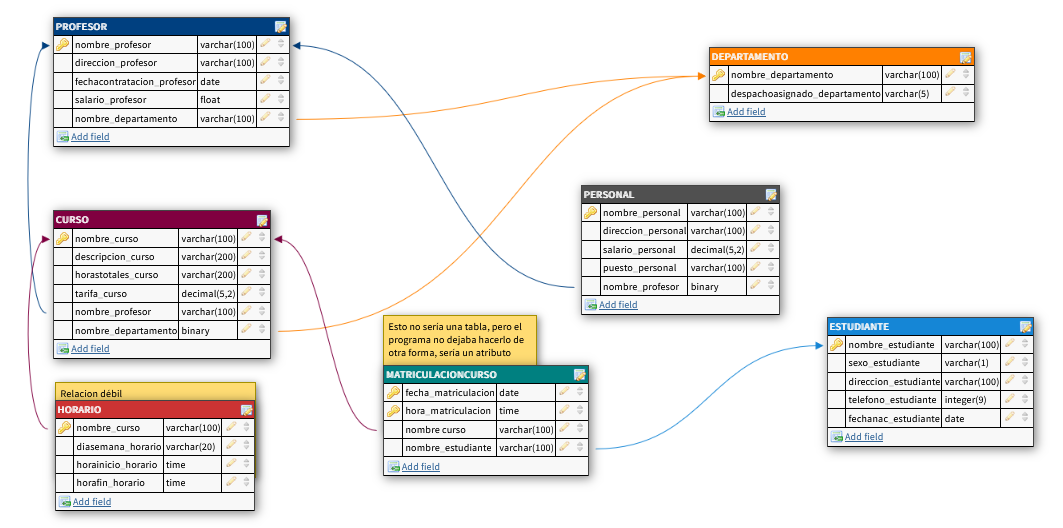
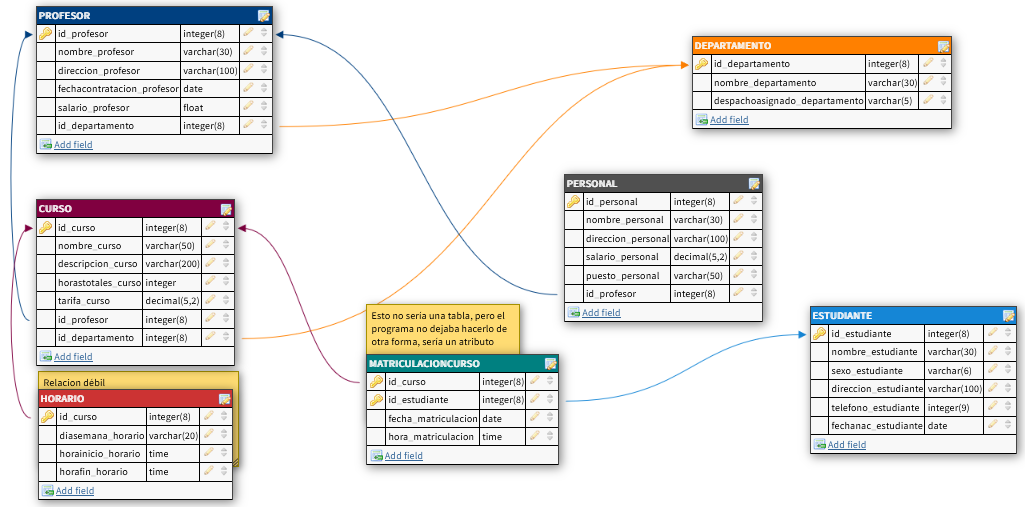
Reorder tables + Pages fixed + all TODO.md errors fixed + page design started + flowfields started

diff --git a/TODO.md b/TODO.md
@@ -1,21 +1,13 @@
 # Falta
 
-- Relaciones
 - Campos Calculados
 - Campos de Filtrado
+- Diseño de Páginas
 
 ## Enlaces documentacion
 
 - [Data Types](https://learn.microsoft.com/en-us/dynamics365/business-central/dev-itpro/developer/methods-auto/library)
-
 - [Formatting](https://learn.microsoft.com/en-us/dynamics365/business-central/dev-itpro/developer/devenv-format-field-data)
+- [ChatGPT](https://chat.openai.com/chat) para consultas complejas y ejemplos de código
 
 ### Arreglar
-
-- ✅ nombre_departamento declarado como binary en tabla Curso (Declarar como varchar(100))
-- ✅ nombre_profesor declarado como binary en tabla NoDocente (Declarar como varchar(100))
-- ❗ Cambiar PKs de Matricula a id_curso e id_alumno, 2 estudiantes se pueden matricular en la misma fecha/hora, asi que no vale como PK doble
-- ✅ Añadir ids a las tablas y ponerlas de PK
-- ✅ Todos los nombre_... ponerlos a varchar(20)  (Puestos como varchar(30)).
-- ✅ La enumeracion de Sexo está como "Hombre" o "Mujer", No como "H" y "M" asi que no puede ser varchar(1)
-- Paginas (Se rompieron al arreglar las tablas)
